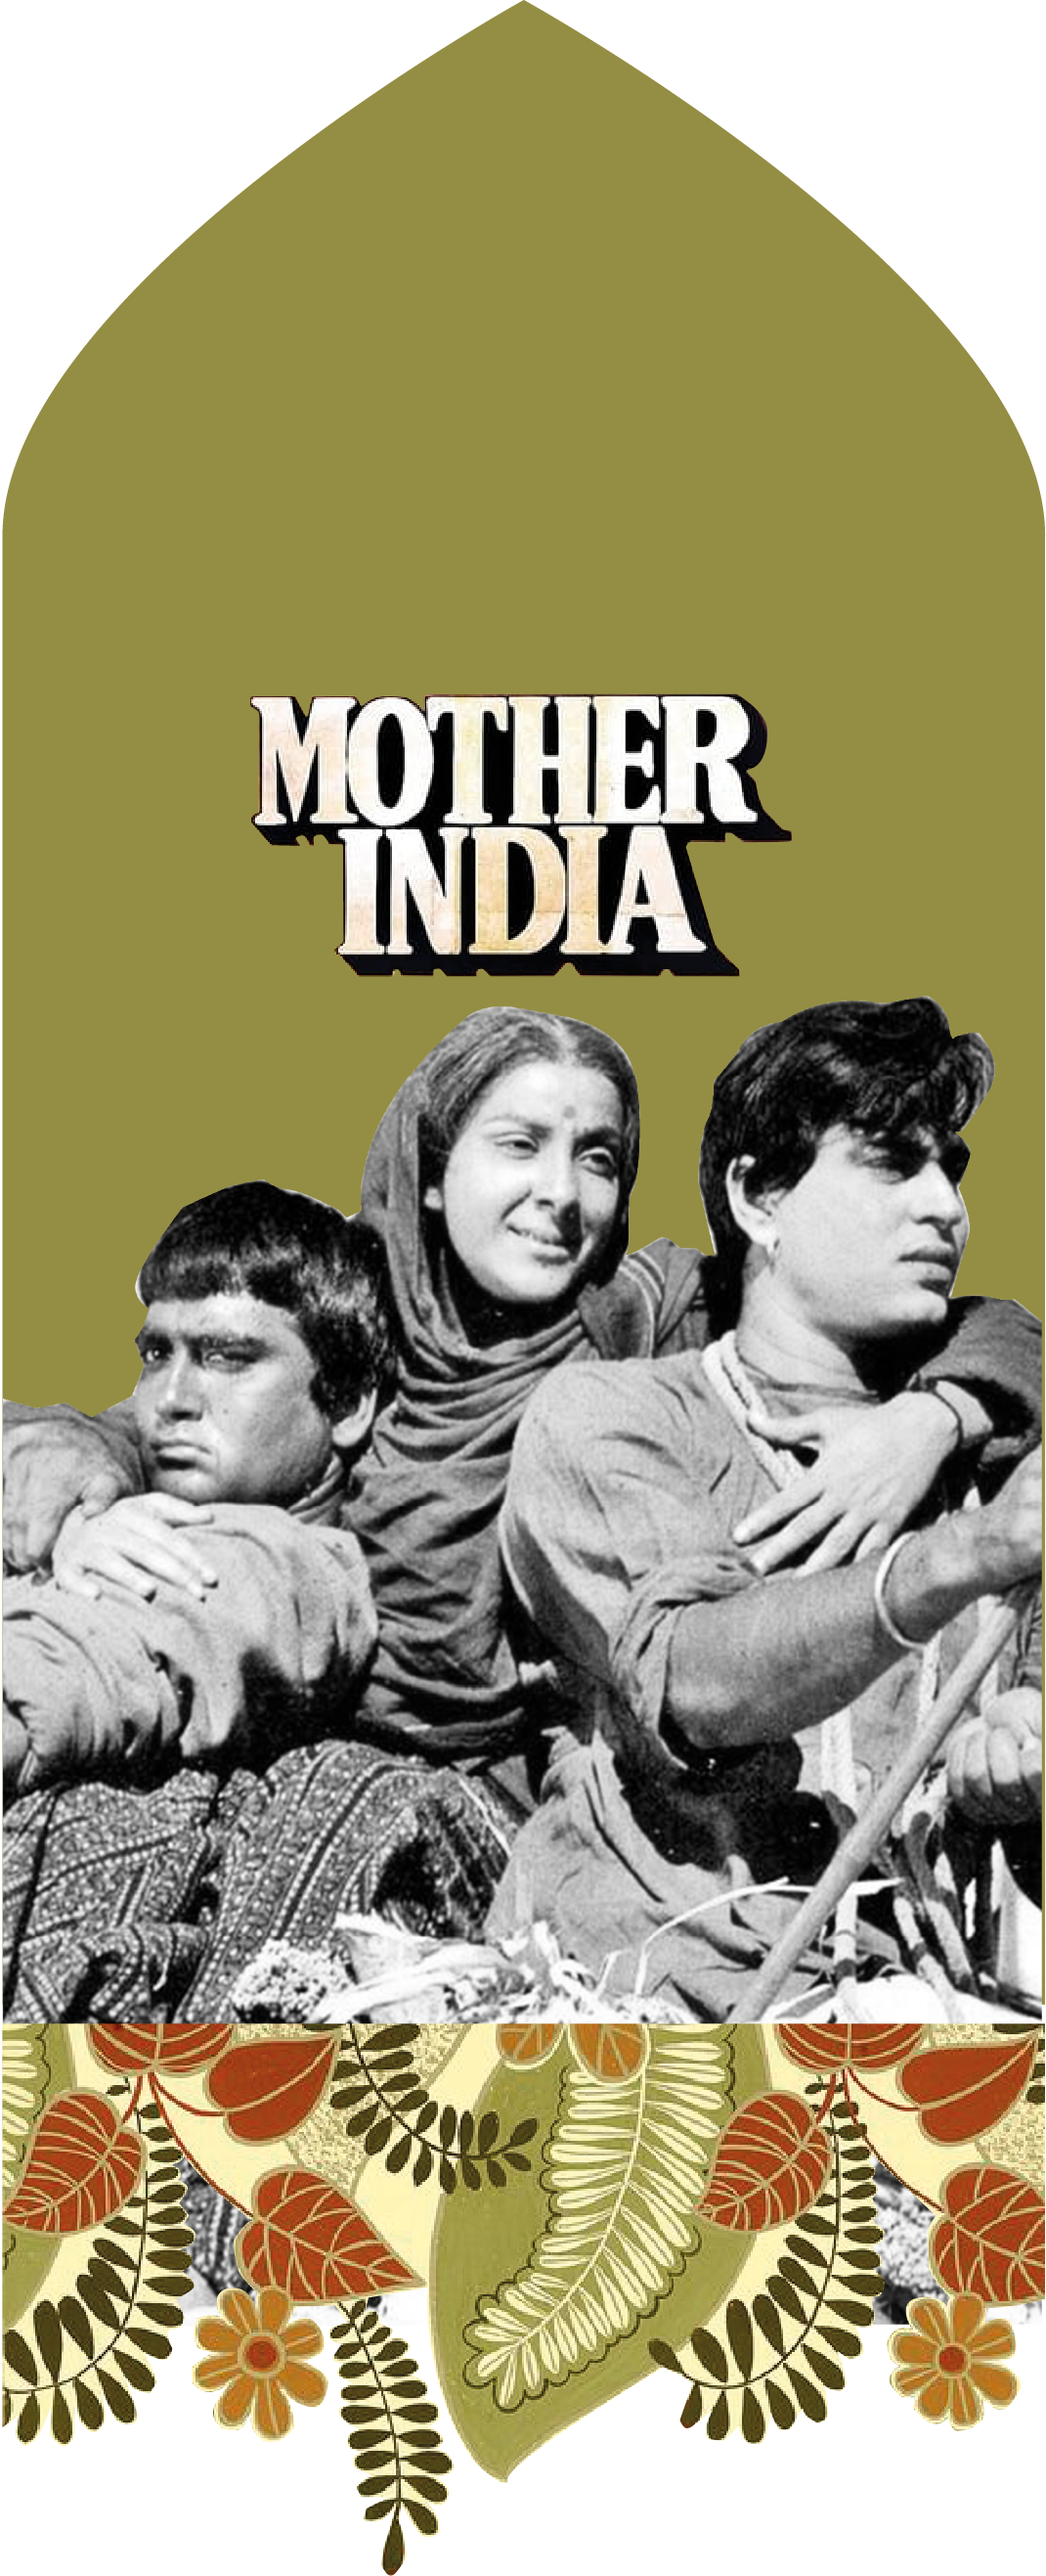
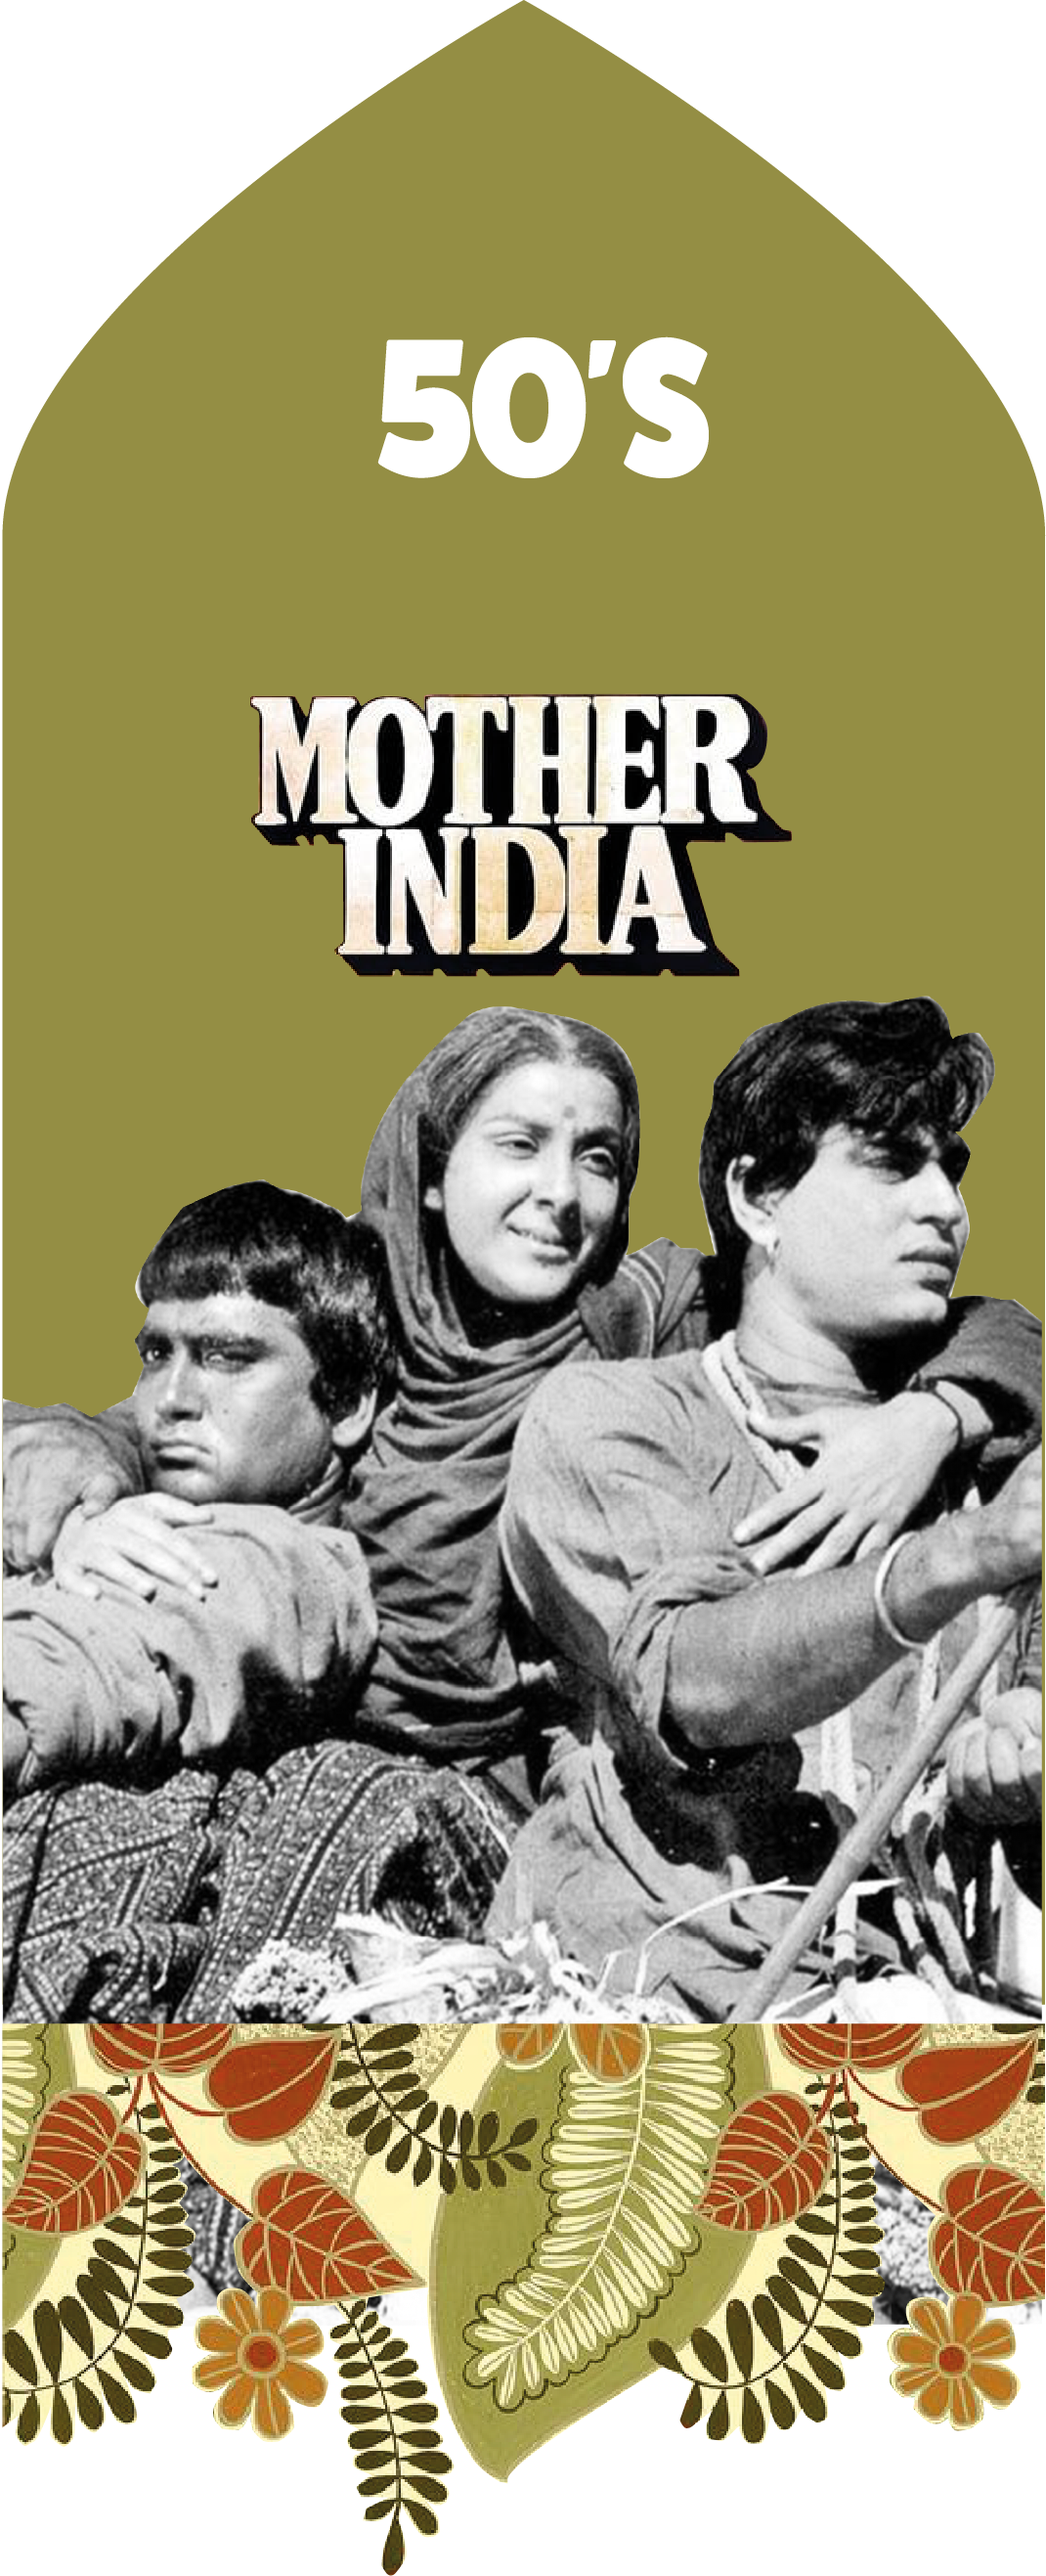
update page fiftees html and css
add classes for position of elements on top of the backgrounded images

Changed region(s): [[0.3393, 0.1245, 0.6785, 0.1868]]

diff --git a/product-fifties.html b/product-fifties.html
@@ -9,10 +9,7 @@
     <body>
       <header>
         <img class="amber-logo" src="img/amber_logo.svg" alt="amber logo">
-        <h1>Moving Music</h1>
-        <h1>50's</h1>
-        <p>X</p>
-        <img src="img/header_motherindia.webp" alt="">
+        <img src="img/header_motherindia.webp" alt="header title image">
       </header>
       <main>
         <article>
@@ -51,13 +48,24 @@
               <img src="img/bluetooth_icon.webp" alt="bluetooth icon"></div>
           </div>
         </div>-->
+        <div class="countainer-quote quote-mother">
+          <p>«O brother, the days of sorrow have passed.
+            <br> Now happiness is here. 
+            <br> It has brought new colours in life.»</p>
+          <p>«Dukh bhare din beete re bhaiya. 
+            <br> Ab sukh aayo re. 
+            <br> Rang jeevan mein naya laayo re»</p>
+        </div>
+        <img class="quote-image" src="img/quote_mughal.webp" alt="">
       </article>
       </main> 
       <footer>  
-        <h1>CONTACTS</h1>
-        <a href="https://www.instagram.com/">@amber</a>
-        <a href="mailto:amber@gmail,com">amber@gmail.com</a>
-        <a href="https://eikon.ch/">eikon, Fribourg 1700, Switzerland</a>
-        <p>Anissah quraishi</p>
-        <p>2022</p>
+        <div class="countainer-footer">
+          <h1>CONTACTS</h1>
+          <a href="https://www.instagram.com/" target="_blank">Instagram</a> <br>
+          <a href="mailto:amber@gmail,com" target="_blank">amber@gmail.com</a> <br>
+          <a href="https://eikon.ch/" target="_blank">Fribourg 1700, Switzerland</a>
+          <p>©Anissah quraishi</p>
+          <p>2022</p>
+        </div>
     </body>

diff --git a/index.html b/index.html
@@ -34,7 +34,7 @@
       </div>
       
       <img src="img/menu_image.webp" alt="">
-      <div class="product-countainer">
+      <div class="button-countainer">
         <a class="button button-50" href="product-fifties.html">50's</a>
         <a class="button button-60" href="product-sixties.html">60's</a>
         <a class="button button-70" href="product-seventies.html">70's</a>
@@ -54,7 +54,7 @@
       <h1>CONTACTS</h1>
       <a href="https://www.instagram.com/" target="_blank">@amber</a> <br>
       <a href="mailto:q.anissah@gmail.com" target="_blank">amber@gmail.com</a> <br>
-      <a href="https://eikon.ch/" target="_blank">eikon, Fribourg 1700, Switzerland</a> <br>
+      <a href="https://eikon.ch/" target="_blank">Fribourg 1700, Switzerland</a> <br>
       <p>Anissah quraishi <br> 2022</p>
     </footer>
   </body>

diff --git a/css/styles.css b/css/styles.css
@@ -17,7 +17,7 @@ img {
 
 p {
   font-family: "Gaultier", sans-serif;
-  font-size: 20px;
+  font-size: 17px;
 }
 
 a {
@@ -161,3 +161,23 @@ article {
   bottom: 900px;
   left: 25%;
 }
+
+.countainer-quote {
+  position: relative;
+  bottom: 760px;
+}
+
+.quote-image {
+  position: relative;
+  bottom: 750px;
+}
+
+.quote-mother {
+  color: #574d29;
+}
+
+.countainer-footer {
+  position: relative;
+  bottom: 730px;
+}
+
